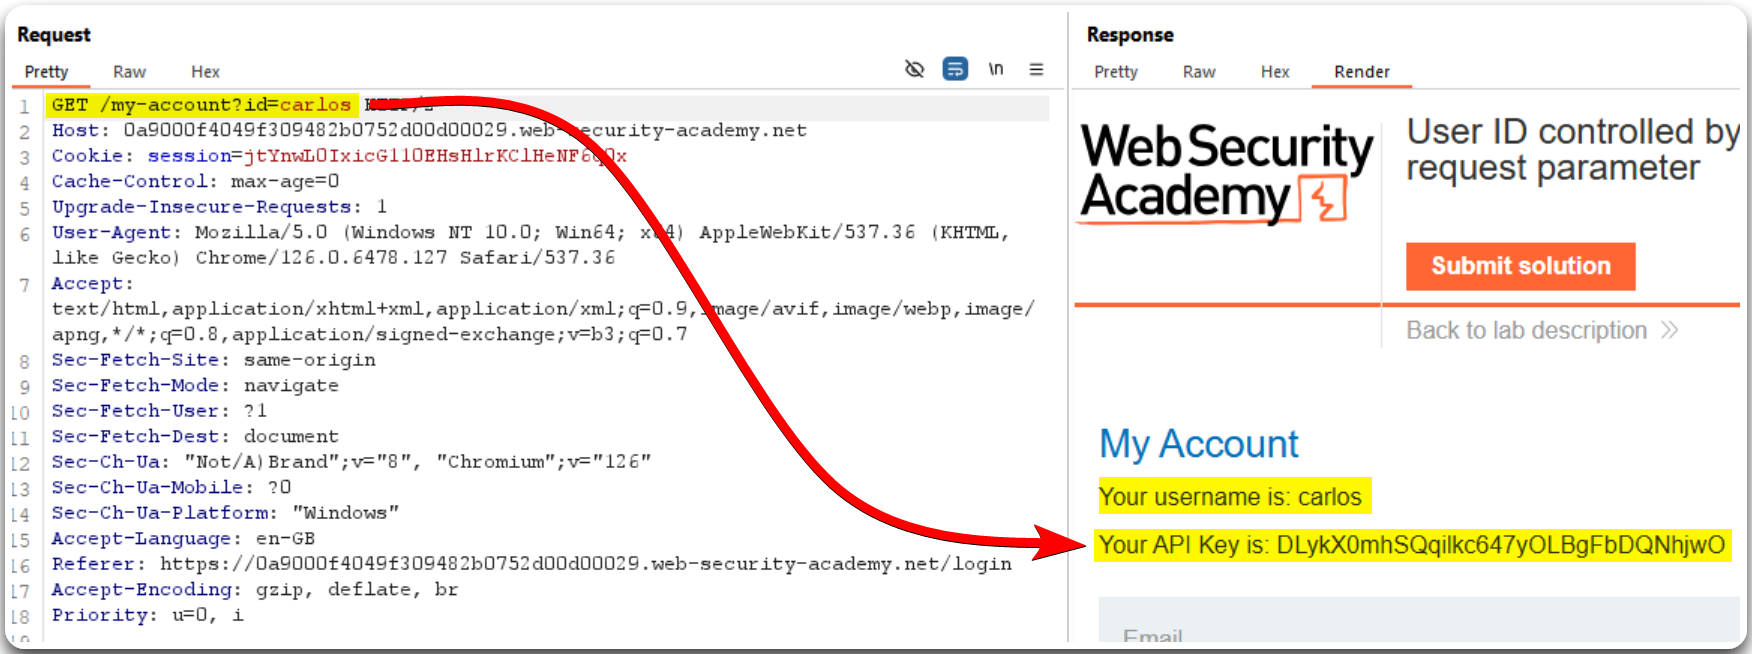
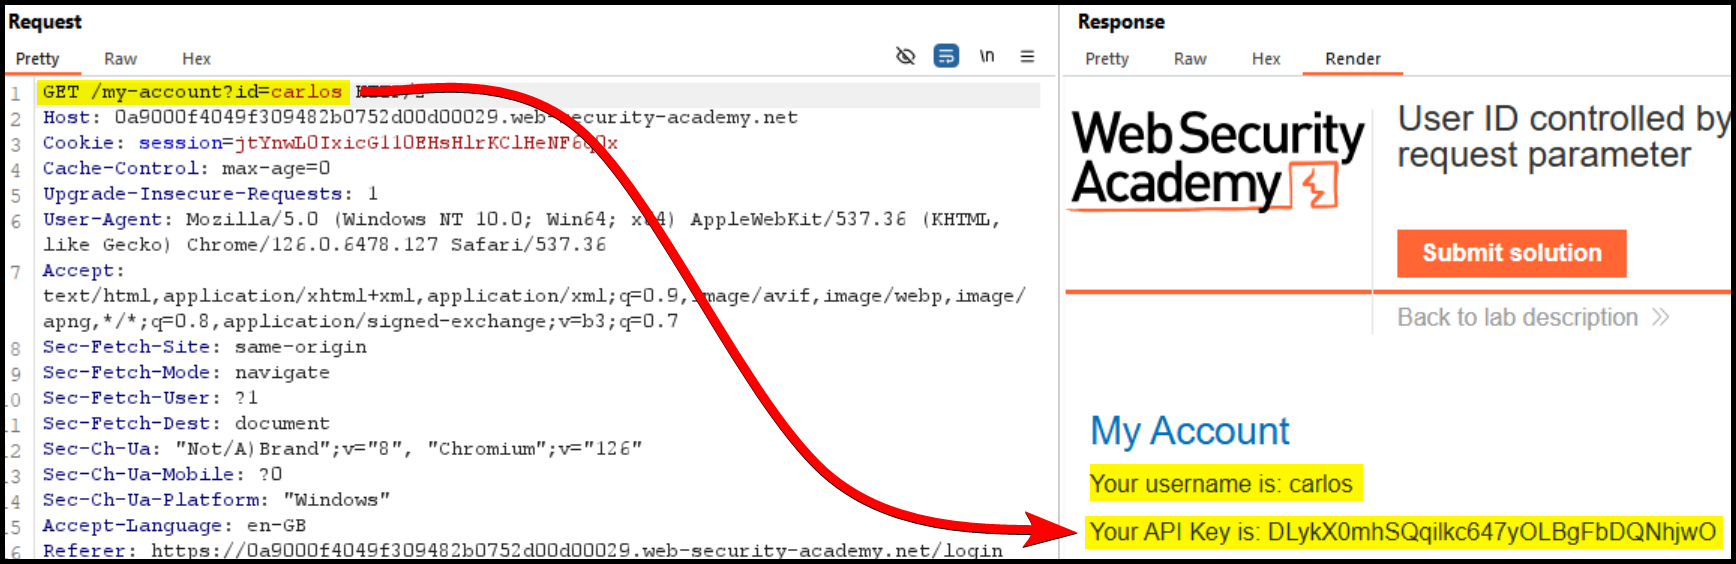
GITBOOK-544: No subject

Changed region(s): [[0.0, 0.0, 1.0, 1.0], [0.4977, 0.7837, 0.5288, 0.8138]]

diff --git a/Pentest Journeys/tl-dr/web/authorization/idor-bola.md b/Pentest Journeys/tl-dr/web/authorization/idor-bola.md
@@ -15,7 +15,7 @@ layout:
 # IDOR / BOLA
 
 {% hint style="info" %}
-Insecure Direct Object Reference (IDOR) or Broken Object Level Authorization (BOLA) is a vulnerability where an attacker can access or manipulate resources they shouldn't be able to, by altering identifiers in requests (e.g., URLs, form fields).
+**Insecure Direct Object Reference (IDOR)** or **Broken Object Level Authorization (BOLA)** is a vulnerability where an attacker can access or manipulate resources they shouldn't be able to, by altering identifiers in requests (e.g., URLs, form fields).
 {% endhint %}
 
 {% hint style="danger" %}
@@ -26,13 +26,36 @@ This can lead to unauthorized access to sensitive data or actions, as attackers 
 Implement proper access controls and authorization checks on the server side, validate and restrict access to resources based on user roles, and avoid exposing direct references to sensitive objects.
 {% endhint %}
 
+IDORs can be categorized as:
+
+1. **Static File IDORs**: When the application uses easily guessable IDs in URLs to access files or data.
+
+```bash
+# referencing a data file's object
+http://idor-sandbox/docs/?f=1.txt
+# routing example
+/users/:userIdent/documents/:pdfFile
+/users/18293017/documents/file-15
+```
+
+2. **Database Object Referencing IDORs (ID-Based)**: When an endpoint insecurely references database objects by their IDs, allowing unauthorized access.
+
+```bash
+# Numeric value
+http://idor-sandbox:80/customerPage/?custId=1
+# Unique Identifier (UID)
+http://idor-sandbox:80/user/?uid=16327
+# Universal Unique Identifier (UUID)
+http://idor-sandbox:80/userProfile/a8e62d80-42cc-4ac6-bf53-d28a0ff61a82 
+```
+
 ## API Key Access <a href="#api-key-access" id="api-key-access"></a>
 
 > _The example below is based on PostSwigger's_ [_User ID controlled by request parameter_](https://portswigger.net/web-security/access-control/lab-user-id-controlled-by-request-parameter) _lab._
 
 When we log into the application with the user `wiener`, we can directly see his API key (Figure 1).
 
-<figure><img src="../../../.gitbook/assets/web_bola_1.avif" alt=""><figcaption><p>Figure 1: Obtaining <code>wiener</code>'s API key.</p></figcaption></figure>
+<figure><img src="../../../.gitbook/assets/web_bola_1.png" alt=""><figcaption><p>Figure 1: Obtaining <code>wiener</code>'s API key.</p></figcaption></figure>
 
 It seems that the `session` cookie is not tied to a specific user. As a result, we can access `carlos`'s API key by forwarding the latter request in the Repeater and changing the `id` parameter (Figure 2).
 
@@ -46,10 +69,6 @@ This application has a Live Chat functionality which also provides the ability t
 
 <figure><img src="../../../.gitbook/assets/web_bola_3.png" alt=""><figcaption><p>Figure 3: Viewing the transcript of our Live Chat reveals where it is stored.</p></figcaption></figure>
 
-Notice that Burp's Active Scan also highlights this feature as a potential issue (Figure 4).
+Similar to the [previous example](https://x7331.gitbook.io/notes/tcm/web-testing/authorization/bola#api-key-access), the session cookie is not tied to a specific user and their transcripts. Thus, we can brute-force the `/download-transcript` directory and access them all (Figure 4).
 
-<figure><img src="../../../.gitbook/assets/web_bola_4.avif" alt=""><figcaption><p>Figure 4: Burp's Active Scan highlights a Back file issue.</p></figcaption></figure>
-
-Similar to the [previous example](https://x7331.gitbook.io/notes/tcm/web-testing/authorization/bola#api-key-access), the session cookie is not tied to a specific user and their transcripts. Thus, we can brute-force the `/download-transcript` directory and access them all (Figure 5).
-
-<figure><img src="../../../.gitbook/assets/web_bola_5.avif" alt=""><figcaption><p>Figure 5: Brute-forcing other users' transcripts.</p></figcaption></figure>
+<figure><img src="../../../.gitbook/assets/web_bola_4.png" alt=""><figcaption><p>Figure 4: Brute-forcing other users' transcripts.</p></figcaption></figure>

diff --git a/Pentest Journeys/tl-dr/web/ssrf/examples.md b/Pentest Journeys/tl-dr/web/ssrf/examples.md
@@ -120,6 +120,14 @@ We can leverage the Gopher protocol to mimic a normal HTTP request and play arou
 
 If we want to mimic a `POST` request the relevant headers and parameters should be injected as well. For example, if we want to mimic the request below:
 
+{% hint style="info" %}
+When data is submitted via a browser using an HTML form with the `POST` method, the `Content-Type` header will have a default value based on the form's `enctype` attribute. If the latter is not specified:
+
+1. It will default to `application/x-www-form-urlencoded`&#x20;
+2. If the form contains file upload fields (`<input type="file">`), the browser will automatically set the `enctype` to `multipart/form-data`.
+3. If the form’s `enctype="text/plain"` is explicitly set, the data will be sent as plain text without any encoding.
+{% endhint %}
+
 ```html
 _POST /login HTTP/1.1
 Content-Type: application/x-www-form-urlencoded
